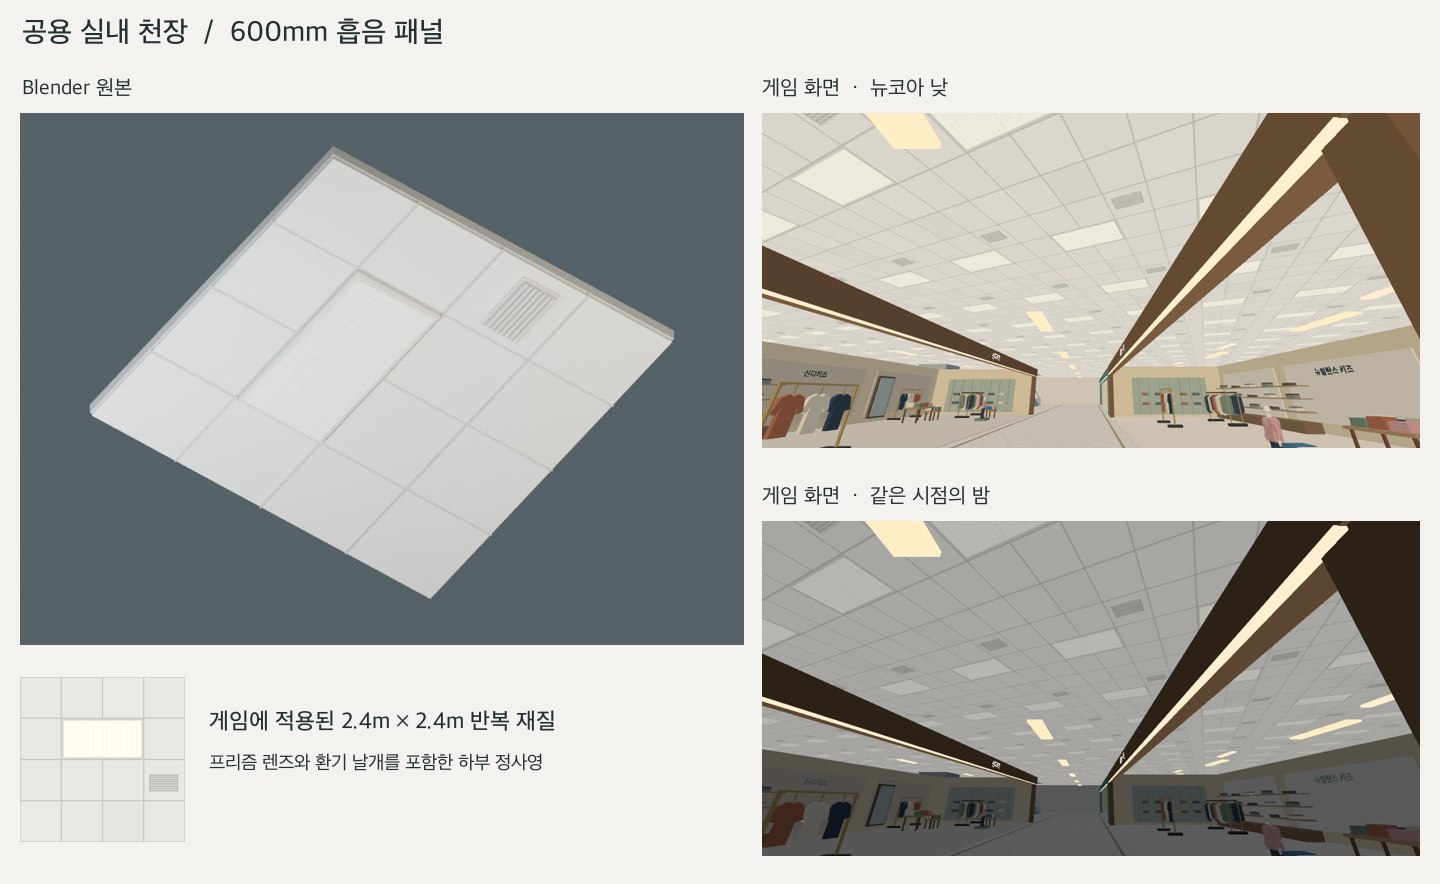
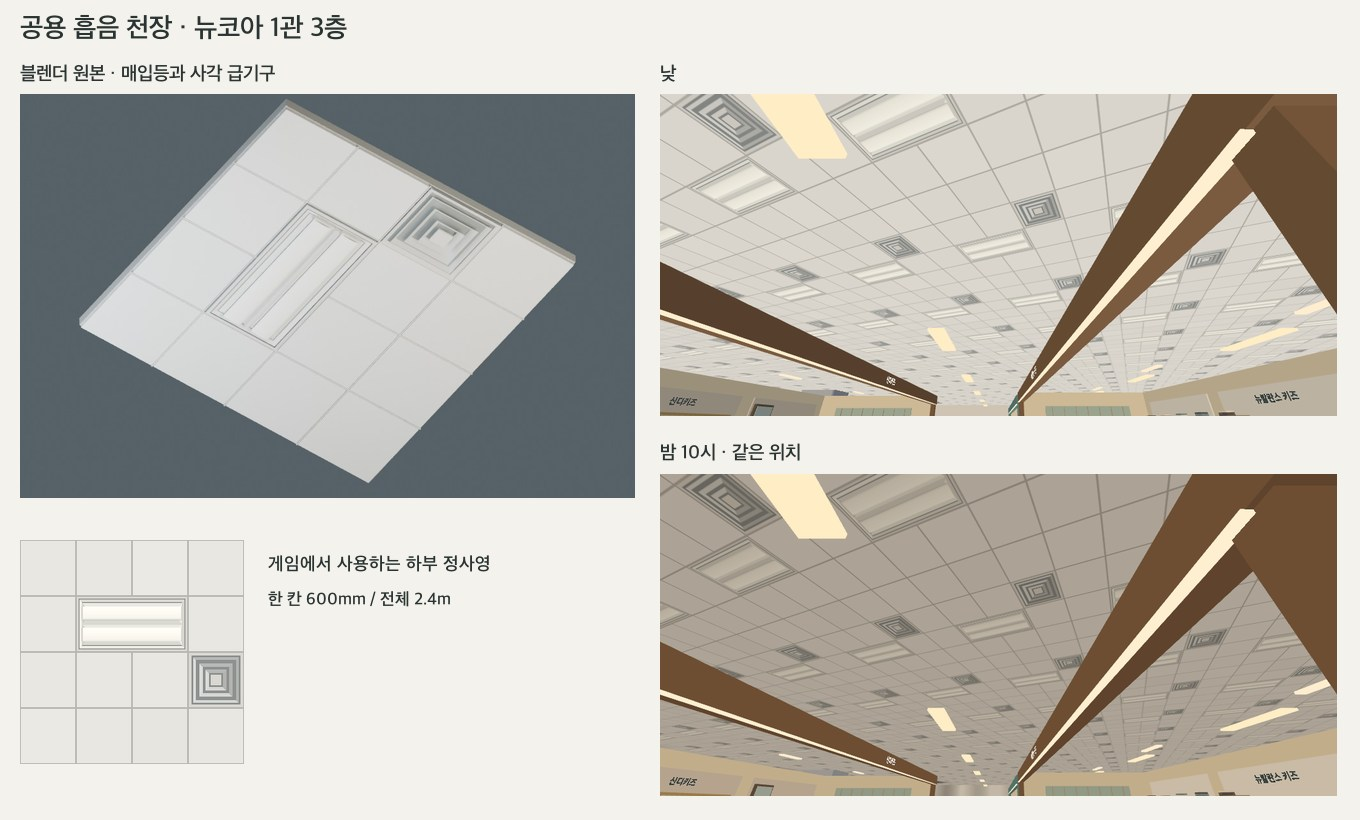
Shape recessed twin-lens ceiling fixtures and stepped air diffusers in Blender

diff --git a/js/textures.js b/js/textures.js
@@ -4,15 +4,33 @@
 const ceilingScale = [2.4, 2.4];
 const ceilingBaseColor = "#e9e7e2";
 const ceilingSpans = [
-  ["#b6b5ae", [201,152,44,1,201,153,1,2,244,153,1,2,201,155,44,1,201,156,1,3,244,156,1,3,201,159,44,1,201,160,1,2,244,160,1,2,201,162,44,1,201,163,1,2,244,163,1,2,201,165,44,1,201,166,1,3,244,166,1,3,201,169,44,1,201,170,1,2,244,170,1,2,201,172,44,1,201,173,1,3,244,173,1,3,201,176,44,1]],
-  ["#cbc8c2", [0,0,256,1,0,1,1,62,63,1,2,62,127,1,2,62,191,1,2,62,255,1,1,62,0,63,256,2,0,65,1,62,63,65,2,62,191,65,2,62,255,65,1,62,0,127,256,2,0,129,1,62,63,129,2,62,127,129,2,62,191,129,2,62,255,129,1,62,0,191,256,2,0,193,1,62,63,193,2,62,127,193,2,62,191,193,2,62,255,193,1,62,0,255,256,1]],
-  ["#d2d1cb", [202,153,42,2,202,156,42,3,202,160,42,2,202,163,42,2,202,166,42,3,202,170,42,2,202,173,42,3]],
-  ["#dad8d1", [65,65,126,2,65,67,2,58,189,67,2,58,65,125,126,2,200,150,46,2,200,152,1,25,245,152,1,25,200,177,46,1]],
+  ["#8d9190", [67,67,122,1,71,71,114,1,71,120,114,1,67,68,1,56,188,68,1,56,67,124,122,1,196,132,56,2,201,137,46,4,209,145,30,3,216,152,16,2,216,154,2,12,230,154,2,12,216,166,16,2,209,148,3,24,236,148,3,24,209,172,30,3,201,141,4,38,243,141,4,38,201,179,46,4,196,134,2,52,250,134,2,52,196,186,56,2]],
+  ["#b3b4b0", [249,135,1,1,248,136,2,1,242,142,1,1,241,143,2,1,240,144,3,1,235,149,1,1,234,150,2,1,233,151,3,1,232,152,4,17,233,169,3,1,234,170,2,1,235,171,1,1,239,145,4,31,240,176,3,1,241,177,2,1,242,178,1,1,247,137,3,47,248,184,2,1,249,185,1,1]],
+  ["#b8b9b6", [198,134,52,1,199,135,50,1,200,136,48,1,205,141,38,1,206,142,36,1,207,143,34,1,208,144,32,1,212,148,24,1,213,149,22,1,214,150,20,1,215,151,18,1]],
+  ["#b9b7b1", [0,0,256,1,0,1,1,62,63,1,2,62,127,1,2,62,191,1,2,62,255,1,1,62,0,63,256,2,0,65,1,62,63,65,2,62,191,65,2,62,255,65,1,62,0,127,256,2,0,129,1,62,63,129,2,62,127,129,2,62,191,129,2,62,255,129,1,62,0,191,256,2,0,193,1,62,63,193,2,62,127,193,2,62,191,193,2,62,255,193,1,62,0,255,256,1]],
+  ["#cdcbc4", [72,91,112,1]],
+  ["#cecec6", [71,72,1,2,71,74,2,1,71,75,3,1,71,92,3,1,71,93,2,1,71,94,1,1,71,97,1,1,71,98,2,1,71,99,3,1,71,116,3,1,71,117,2,1,71,118,1,2]],
+  ["#d4d3cc", [187,69,1,1,186,70,2,1,185,71,3,5,186,76,2,16,185,92,3,8,186,100,2,16,185,116,3,5,186,121,2,1,187,122,1,1]],
+  ["#d6d7d3", [216,168,16,1,215,169,18,1,214,170,20,1,213,171,22,1,209,175,30,1,208,176,32,1,207,177,34,1,206,178,36,1,201,183,46,1,200,184,48,1,199,185,50,1]],
+  ["#d9d8d1", [74,92,108,1,73,93,110,1,72,94,112,1,74,116,108,1,73,117,110,1,72,118,112,2]],
+  ["#dad8d1", [65,65,126,2,70,76,2,16,184,76,2,16,71,95,114,2,70,100,2,16,184,100,2,16,65,67,2,58,189,67,2,58,65,125,126,2,193,129,62,3,218,154,12,12,193,132,3,56,252,132,3,56,193,188,62,3]],
+  ["#dad9d1", [68,68,120,1,69,69,118,1,70,70,116,1]],
+  ["#dbdcd8", [198,135,1,1,198,136,2,1,205,142,1,1,205,143,2,1,205,144,3,1,212,149,1,1,212,150,2,1,212,151,3,1,212,152,4,17,212,169,3,1,212,170,2,1,212,171,1,1,205,145,4,31,205,176,3,1,205,177,2,1,205,178,1,1,198,137,3,47,198,184,2,1,198,185,1,1]],
   ["#e7e5df", [129,193,62,62]],
-  ["#e9e7e1", [67,67,122,1,67,68,1,56,188,68,1,56,67,124,122,1]],
+  ["#e9e8df", [72,90,112,1,72,115,112,1]],
   ["#ebe9e4", [129,1,62,62,1,193,62,62]],
-  ["#f8f5eb", [75,69,1,54,83,69,1,54,90,69,1,54,98,69,1,54,105,69,1,54,113,69,1,54,120,69,1,54,127,69,2,54,135,69,1,54,142,69,1,54,150,69,1,54,157,69,1,54,165,69,1,54,172,69,1,54,180,69,1,54]],
-  ["#fffdf4", [68,68,120,1,68,69,7,54,76,69,7,54,84,69,6,54,91,69,7,54,99,69,6,54,106,69,7,54,114,69,6,54,121,69,6,54,129,69,6,54,136,69,6,54,143,69,7,54,151,69,6,54,158,69,7,54,166,69,6,54,173,69,7,54,181,69,7,54,68,123,120,1]],
+  ["#ebeae2", [72,72,112,2,73,74,110,1,74,75,108,1,72,97,112,1,73,98,110,1,74,99,108,1,70,121,116,1,69,122,118,1,68,123,120,1]],
+  ["#efeee5", [68,69,1,1,68,70,2,1,68,71,3,5,68,76,2,16,68,92,3,8,68,100,2,16,68,116,3,5,68,121,2,1,68,122,1,1]],
+  ["#efeee6", [184,72,1,2,183,74,2,1,182,75,3,1,182,92,3,1,183,93,2,1,184,94,1,1,184,97,1,1,183,98,2,1,182,99,3,1,182,116,3,1,183,117,2,1,184,118,1,2]],
+  ["#f2f1e8", [72,89,112,1,72,114,112,1]],
+  ["#f7f5ec", [72,88,112,1,72,112,112,2]],
+  ["#f9f7ee", [72,86,112,2,72,110,112,2]],
+  ["#fbf9f0", [72,84,112,2,72,100,112,1,72,108,112,2]],
+  ["#fcfaf2", [72,82,112,2,72,106,112,2]],
+  ["#fefcf3", [72,80,112,2,72,104,112,2]],
+  ["#fffdf4", [72,78,112,2,72,103,112,1]],
+  ["#fffff6", [72,77,112,1,72,102,112,1]],
+  ["#fffff7", [72,76,112,1,72,101,112,1]],
 ];
 // END Blender suspended ceiling swatch
 export const FONT = '"Noto Sans KR","Apple SD Gothic Neo","Malgun Gothic",sans-serif';

diff --git a/assets/models/shared-ceiling/build.py b/assets/models/shared-ceiling/build.py
@@ -1,5 +1,6 @@
 """Build a removable suspended ceiling sample with the finish facing downward."""
 from pathlib import Path
+from math import cos, pi, sin
 from mathutils import Vector
 
 import bpy
@@ -38,21 +39,50 @@ def box(name, xyz, dims, mat, bevel=0):
     return ob
 
 
+def formed_part(name, vertices, faces, mat):
+    mesh = bpy.data.meshes.new(name)
+    mesh.from_pydata(vertices, [], faces)
+    mesh.update()
+    ob = bpy.data.objects.new(name, mesh)
+    group.objects.link(ob)
+    mesh.materials.append(mat)
+    return ob
+
+
+def folded_rim(name, x, y, outer, inner, mat):
+    # Open centre: looking up through the lip, the deeper sheet remains visible.
+    verts = []
+    for w, d, z in (outer, inner):
+        for sx, sy in ((-1,-1), (-1,1), (1,1), (1,-1)):
+            verts.append((x+sx*w/2, y+sy*d/2, z))
+    return formed_part(name, verts, [(i,(i+1)%4,(i+1)%4+4,i+4) for i in range(4)], mat)
+
+
+def bowed_lens(y, mat):
+    # The bent opal extrusion has a shallow crown, visible between the end caps.
+    arc = [(y+.072*sin(a*pi/12), -.029-.018*cos(a*pi/12)) for a in range(-6,7)]
+    vertices = [(x,cy,z) for x in (-.528,.528) for cy,z in arc]
+    n = len(arc)
+    faces = [(i,i+1,i+1+n,i+n) for i in range(n-1)]
+    return formed_part('볼록한 유백 확산 렌즈', vertices, faces, mat)
+
+
 panels = [material('흡음보드 · ' + name, color) for name, color in (
     ('아이보리', 'e9e7e2'), ('밝은 아이보리', 'ebe9e4'), ('웜 그레이', 'e7e5df'))]
-steel = material('T바 섀도', 'cbc8c2')
+steel = material('T바 섀도', 'b9b7b1')
 trim = material('알루미늄 프레임', 'dad8d1')
-edge = material('유백색 베젤', 'e9e7e1')
+edge = material('접힌 반사판', 'e9e8e0')
 lens = material('오팔 렌즈', 'fffdf4')
-rib = material('프리즘 리브', 'f8f5eb')
-opening = material('환기구 안쪽', 'b6b5ae')
-louvre = material('환기 날개', 'd2d1cb')
+opening = material('깊은 섀도 틈', '8d9190')
+louvre = material('네 방향 디퓨저 날개', 'd5d6d2')
+for mat in (edge, lens, louvre):
+    mat['bake_fold_shading'] = True
 
 carrier = box('2.4m 반복 패널 바탕', (0, 0, .060), (2.4, 2.4, .070), steel)
 carrier['repeat_bounds'] = True
 for row in range(4):
     for col in range(4):
-        if row == 1 and col in (1, 2):
+        if (row == 1 and col in (1, 2)) or (row == 2 and col == 3):
             continue
         x, y = (col - 1.5) * .6, (row - 1.5) * .6
         index = 1 if (row, col) in ((0, 2), (3, 0)) else 2 if (row, col) == (3, 2) else 0
@@ -62,17 +92,23 @@ for i in range(3):
     box('T바 · 레일', (k, 0, .005), (.007, 2.4, .014), trim)
     box('T바 · 가로대', (0, k, .006), (2.4, .007, .014), trim)
 
-box('매입등 하우징', (0, -.3, .004), (1.182, .581, .066), trim, .005)
-box('경사형 베젤', (0, -.3, -.031), (1.151, .550, .012), edge, .005)
-box('프리즘 확산 렌즈', (0, -.3, -.040), (1.123, .521, .014), lens, .003)
-for i in range(1, 16):
-    x = -.56 + i * .070
-    box('프리즘 렌즈 리브', (x, -.3, -.047), (.010, .510, .006), rib)
-box('환기구 외곽', (.89, .34, -.010), (.435, .260, .020), trim, .006)
-box('환기구 안쪽', (.89, .34, -.023), (.405, .230, .012), opening)
-for i in range(7):
-    ob = box('경사진 환기 날개', (.89, .34 + (i - 3) * .032, -.036), (.397, .021, .011), louvre)
-    ob.rotation_euler.x = .25
+box('매입등 · 반사판 받이', (0, -.3, .006), (1.182, .581, .018), opening, .003)
+folded_rim('매입등 · 테두리', 0, -.3, (1.182,.581,-.016), (1.140,.539,-.019), trim)
+folded_rim('매입등 · 경사 반사판', 0, -.3, (1.125,.524,-.016), (1.063,.453,.000), edge)
+for y in (-.414, -.186):
+    folded_rim('확산 렌즈 · 매입 홈', 0,y, (1.063,.223,-.002), (1.010,.146,-.020), edge)
+    bowed_lens(y, lens)
+    for x in (-.535,.535):
+        box('렌즈 끝마개', (x,y,-.022), (.018,.152,.028), trim, .003)
+box('매입등 · 중앙 격벽', (0,-.3,-.018), (1.068,.025,.038), trim, .003)
+
+# A three-cone supply diffuser fills one acoustic tile. Successive square
+# vanes stand forward of the dark plenum, leaving open slots between them.
+box('사각 급기구 · 안쪽 플리넘', (.9,.3,.014), (.582,.582,.016), opening)
+folded_rim('사각 급기구 · 외곽 테두리', .9,.3, (.582,.582,-.010), (.527,.527,.000), trim)
+for width, z in ((.492,-.022), (.360,-.038), (.229,-.054)):
+    folded_rim('급기구 · 절곡 콘', .9,.3, (width,width,z), (width-.076,width-.076,z+.039), louvre)
+box('급기구 · 중앙판', (.9,.3,-.051), (.119,.119,.018), trim, .004)
 for screen in bpy.data.screens:
     for area in screen.areas:
         if area.type == 'VIEW_3D':

diff --git a/assets/models/shared-ceiling/export.py b/assets/models/shared-ceiling/export.py
@@ -55,12 +55,25 @@ def bake(out):
     camera.location = ((lo[0] + hi[0]) / 2, (lo[1] + hi[1]) / 2, lo[2] - 3)
     camera.rotation_euler = (pi, 0, 0)
     scene.camera = camera
-    # Bake base colours only. The game supplies illumination and day/night changes.
+    # Preserve the faces of the small folded sheet-metal parts in the diffuse
+    # atlas. The game still supplies the full ceiling's time-of-day lighting.
     for mat in bpy.data.materials:
         mat.use_nodes = True
         nodes = mat.node_tree.nodes
         emit = nodes.new('ShaderNodeEmission')
         emit.inputs['Color'].default_value = mat.diffuse_color
+        if mat.get('bake_fold_shading'):
+            normal = nodes.new('ShaderNodeNewGeometry')
+            dot = nodes.new('ShaderNodeVectorMath')
+            dot.operation = 'DOT_PRODUCT'
+            dot.inputs[1].default_value = (.56, -.42, -.71)
+            mat.node_tree.links.new(normal.outputs['True Normal'], dot.inputs[0])
+            fill = nodes.new('ShaderNodeMath')
+            fill.operation = 'MULTIPLY_ADD'
+            fill.inputs[1].default_value = .48
+            fill.inputs[2].default_value = .63
+            mat.node_tree.links.new(dot.outputs['Value'], fill.inputs[0])
+            mat.node_tree.links.new(fill.outputs[0], emit.inputs['Strength'])
         mat.node_tree.links.new(emit.outputs[0], nodes.get('Material Output').inputs['Surface'])
     scene.render.engine = 'CYCLES'
     scene.cycles.device = 'CPU'

diff --git a/assets/models/shared-ceiling/README.md b/assets/models/shared-ceiling/README.md
@@ -1,6 +1,6 @@
 # 공용 흡음 천장 패널
 
-[Blender 원본](suspended-ceiling.blend)은 600mm 흡음판, T바, 2칸 매입 조명의 베젤과 프리즘 렌즈, 환기구의 경사 날개를 개별 메시로 보관합니다. 이 패널은 여러 실내에서 함께 쓰는 게임용 마감입니다. 게임은 2.4m × 2.4m 한 판을 기본 천장 재질 `ceiling`로 반복해서 그립니다. [Blender 모델과 뉴코아 게임 화면](review.jpg)
+[Blender 원본](suspended-ceiling.blend)에는 600mm 흡음판과 T바, 매입등의 곡면 렌즈 두 줄과 경사 반사판, 사각 급기구의 세 겹 날개가 개별 메시로 들어 있습니다. 등기구와 급기구는 상업시설용 제품의 일반적인 구조를 참고했습니다. 각 지점의 기종과 설치 간격은 미확인입니다. 뉴코아 등에서 기본 천장 재질 `ceiling`을 사용하는 면에는 2.4m × 2.4m 단위로 적용됩니다. [블렌더 원본과 게임의 낮·밤 화면](review.jpg) · [Day-Brite 상업시설 매입등](https://www.assets.signify.com/is/content/Signify/Assets/signify/united-states/20240326-commercial-recessed-product-selection-guide.pdf) · [Titus 사각 급기구](https://www.titus-hvac.com/Products/Diffusers/TMS)
 
 메시를 편집하거나 재질의 뷰포트 표시 색상을 바꾼 뒤 원본 파일을 저장합니다. 저장소 루트에서 다음 명령으로 게임 재질을 갱신할 수 있습니다.
 
@@ -9,4 +9,4 @@ blender --background assets/models/shared-ceiling/suspended-ceiling.blend \
   --python-exit-code 1 -P assets/models/shared-ceiling/export.py
 ```
 
-내보내기 스크립트는 천장을 아래에서 정사영하고 같은 색으로 이어지는 픽셀 구간을 묶습니다. 결과는 [공용 재질 코드](../../../js/textures.js)의 `BEGIN Blender suspended ceiling swatch` 구간에 들어갑니다. 게임은 기존 천장 재질을 처음 사용하는 시점에 256px 캔버스에 색상을 채웁니다. 시간대별 조명은 게임 장면의 값을 그대로 사용합니다.
+내보내기 스크립트는 천장을 아래에서 정사영하고, 렌즈·반사판·급기구에 표시된 면의 기울기를 색상에 반영합니다. 같은 색의 픽셀 구간을 묶어 공용 재질 코드의 `BEGIN Blender suspended ceiling swatch` 구간에 기록합니다. 게임에서는 이 재질을 처음 사용할 때 256px 캔버스에 한 번 그립니다. 낮과 밤의 조도는 게임의 실내 조명을 따릅니다. [공용 재질 코드](../../../js/textures.js)
